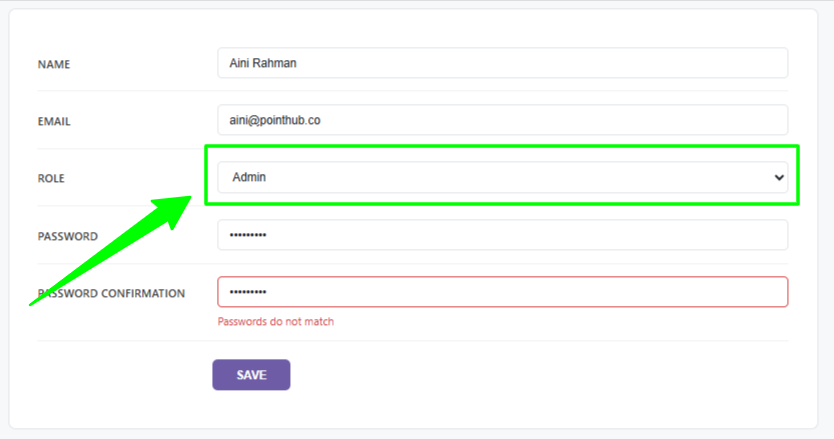
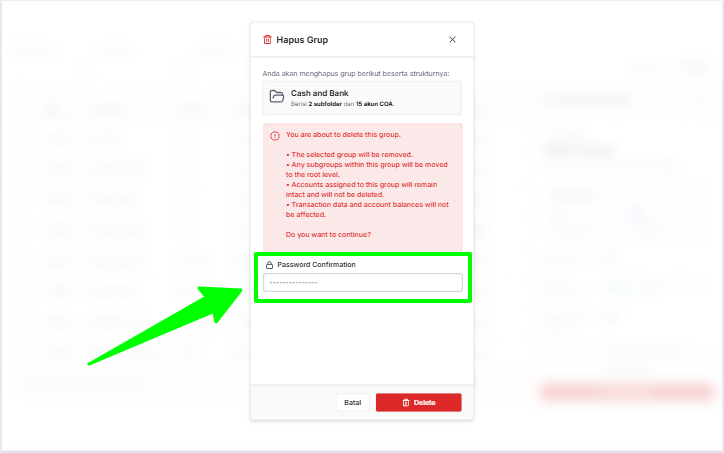
GITBOOK-702: fixing chart of account

diff --git a/features/chart-of-account-group/acceptance-criteria/delete-master-group-chart-of-account.md b/features/chart-of-account-group/acceptance-criteria/delete-master-group-chart-of-account.md
@@ -106,3 +106,42 @@
         * Petty Cash (Petty cash increases at the parent level)
         * Bank&#x20;
 
+## Group-coa 3.6 : Archive data chart of account&#x20;
+
+* Given user is logged in
+* And users have permission to delete the chart of accounts.
+* And password user for the account "Admin123"!
+* And user on the list page chart of account
+* And group "101 GPR" already have transaction&#x20;
+* When user click group "101 GPR"
+
+<figure><img src="../../../.gitbook/assets/image (105).png" alt=""><figcaption></figcaption></figure>
+
+* And the user clicks the delete button.
+
+<figure><img src="../../../.gitbook/assets/image (99).png" alt=""><figcaption></figcaption></figure>
+
+* And user type "Admin123" into the column.
+
+<figure><img src="../../../.gitbook/assets/image (95).png" alt=""><figcaption></figcaption></figure>
+
+* And user click button delete
+
+<figure><img src="../../../.gitbook/assets/image (226).png" alt=""><figcaption></figcaption></figure>
+
+* Then I can view notification "successfully archived "
+
+<figure><img src="../../../.gitbook/assets/Successfully Archived Notification.png" alt=""><figcaption></figcaption></figure>
+
+* And subgroup within this group will be move to the parent level. Sample Data  :&#x20;
+  * Data before deletion :
+    * Asset&#x20;
+      * Kas & Bank&#x20;
+        * Kas Setara kas (archived by user)
+          * Petty cash&#x20;
+          * Bank&#x20;
+  * Data after deletion :&#x20;
+    * Asset&#x20;
+      * Kas & Bank&#x20;
+        * Petty Cash (Petty cash increases at the parent level)
+          * Bank&#x20;

diff --git a/features/chart-of-account-group/overview/mindmap.md b/features/chart-of-account-group/overview/mindmap.md
@@ -1,17 +1,17 @@
 # Mindmap
 
-## Create chart of account group&#x20;
+## Create chart of account group
 
 <figure><img src="../../../.gitbook/assets/Sitemap ERP SAAS -Group-COA-1 _  Create- Master group chart of account.drawio (1).png" alt=""><figcaption></figcaption></figure>
 
-## Edit chart of account group&#x20;
+## Edit chart of account group
 
 <figure><img src="../../../.gitbook/assets/Sitemap ERP SAAS -Group-COA-2_ . Edit- Master group chart of account .drawio (1).png" alt=""><figcaption></figcaption></figure>
 
-## Detail chart of account group&#x20;
+## Delete chart of account group
 
-<figure><img src="../../../.gitbook/assets/Sitemap ERP SAAS -Group-COA-3_ Delete- Master group chart of account .drawio.png" alt=""><figcaption></figcaption></figure>
+<figure><img src="../../../.gitbook/assets/Sitemap ERP SAAS -Group-COA-3_ Delete- Master group chart of account .drawio (1).png" alt=""><figcaption></figcaption></figure>
 
-## List chart of account group&#x20;
+## List chart of account group
 
 <figure><img src="../../../.gitbook/assets/Sitemap ERP SAAS -Group-COA-4 _ List- Master group chart of account .drawio.png" alt=""><figcaption></figcaption></figure>
